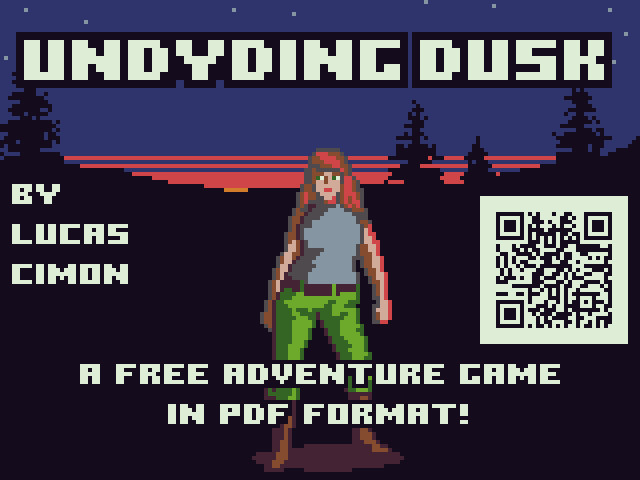
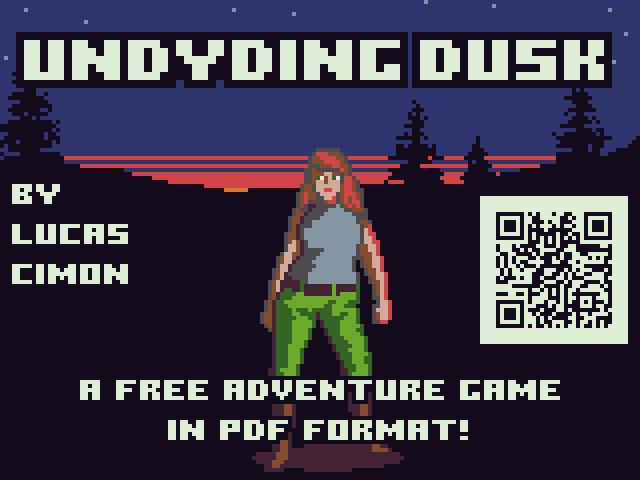
Fixing import issue with linter

Changed region(s): [[0.125, 0.75, 0.875, 0.9375]]

diff --git a/trailer/gen_promo_images.py b/trailer/gen_promo_images.py
@@ -105,7 +105,6 @@ def gen_cover(fpdf):
     img = scale(4, [img])[0]
     img.save(f'{PARENT_DIR}/undying-dusk-cover.png')
 
-
 def gen_card(fpdf):
     img, pdf_img = init_pdf_img(fpdf, 'nightsky')
     bitfont_render(pdf_img, 'UNDYDING DUSK', 80, 8, Justify.CENTER, size=16)
@@ -114,13 +113,11 @@ def gen_card(fpdf):
     bitfont_render(pdf_img, 'by\nLucas\nCIMON', 2, 45)
     qrcode = QRCode(box_size=1)
     qrcode.add_data("https://lucas-c.itch.io/undying-dusk")
-    black, white = "#140c1c", "#deeed6"
-    qr_img = qrcode.make_image(fill_color=black, back_color=white).get_image().convert('RGBA')
+    qr_img = qrcode.make_image(fill_color="#140c1c", back_color="#deeed6").get_image().convert('RGBA')
     pdf_img.image(qr_img, x=120, y=49)
-    bitfont_render(pdf_img, 'A free adventure game\nin PDF format!', 80, 90, Justify.CENTER)
+    bitfont_render(pdf_img, 'A free adventure game\nin PDF format!', 80, 94, Justify.CENTER)
     img = scale(4, [img])[0]
     img.save(f'{PARENT_DIR}/undying-dusk-card.png')
-
 
 def scale(factor, images):
     return [img.resize((factor * config().VIEW_WIDTH, factor * config().VIEW_HEIGHT),
